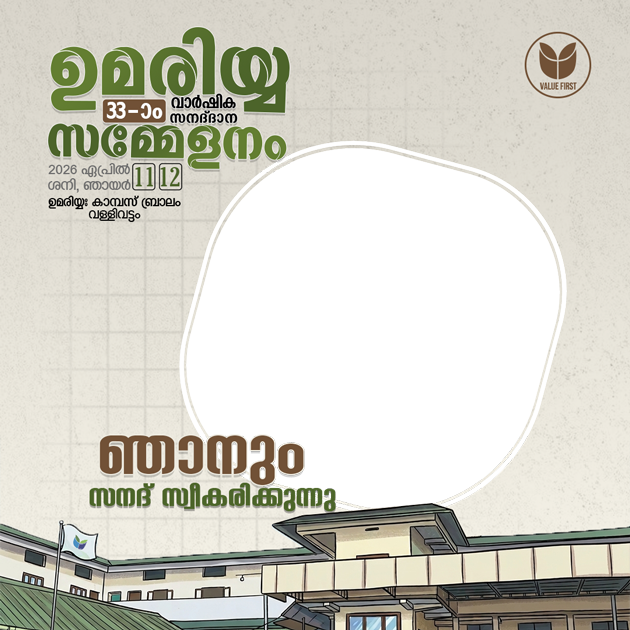
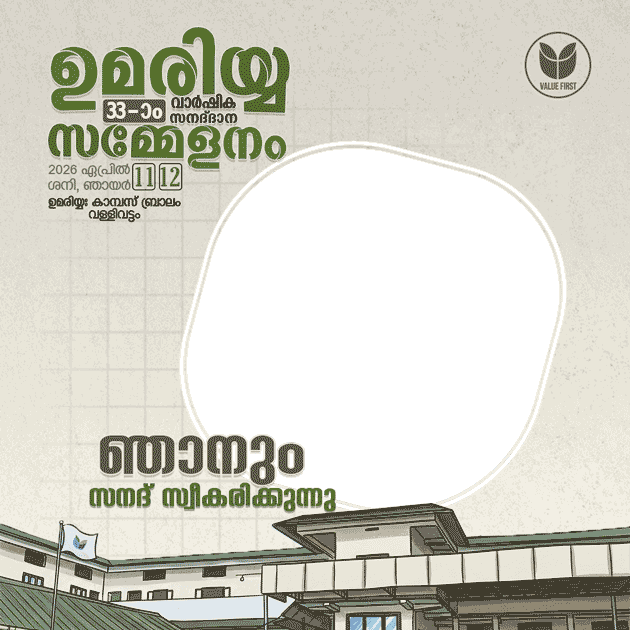
graduent frame-5

diff --git a/umariyya-anniversary-graduend/index.html b/umariyya-anniversary-graduend/index.html
@@ -7,8 +7,8 @@
    <!-- Thumbnail for URL Sharing (WhatsApp, Facebook, Twitter, etc.) -->
   <meta property="og:title" content="Umariyya 33rd Anniversary">
   <meta property="og:description" content="Create your personalized photo frame for Umariyya Anniversary on April 11-12, 2026">
-  <meta property="og:image" content="https://mikthadpk.github.io/frame/umariyya-anniversary-participant/frame-thumb.png">
-  <meta property="og:url" content="https://mikthadpk.github.io/frame/umariyya-anniversary-participant/">
+  <meta property="og:url" content="https://mikthadpk.github.io/frame/umariyya-anniversary-graduend/">
+  <meta property="og:image" content="https://mikthadpk.github.io/frame/umariyya-anniversary-graduend/frame-thumb.png">
   <meta property="og:image:width" content="630" />
 <meta property="og:image:height" content="630" />
   <meta property="og:type" content="image/png">